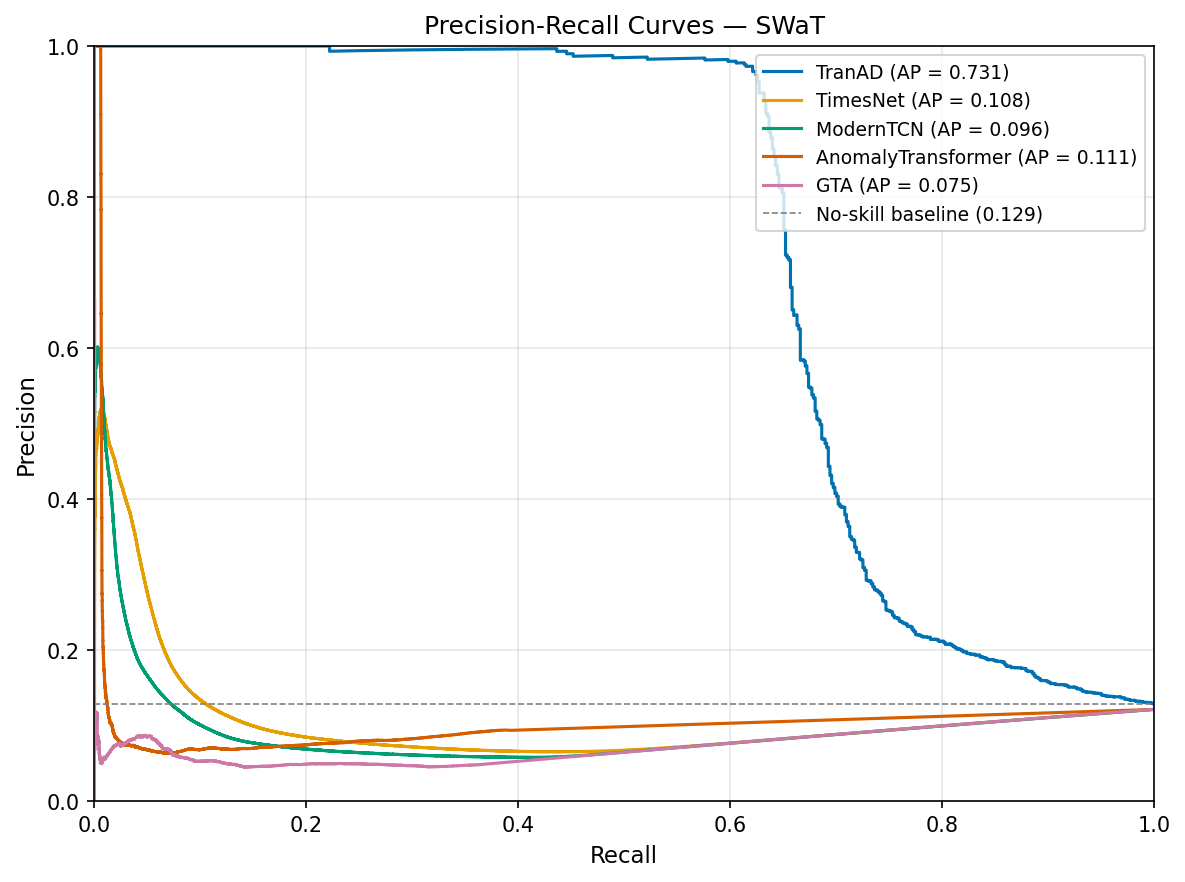
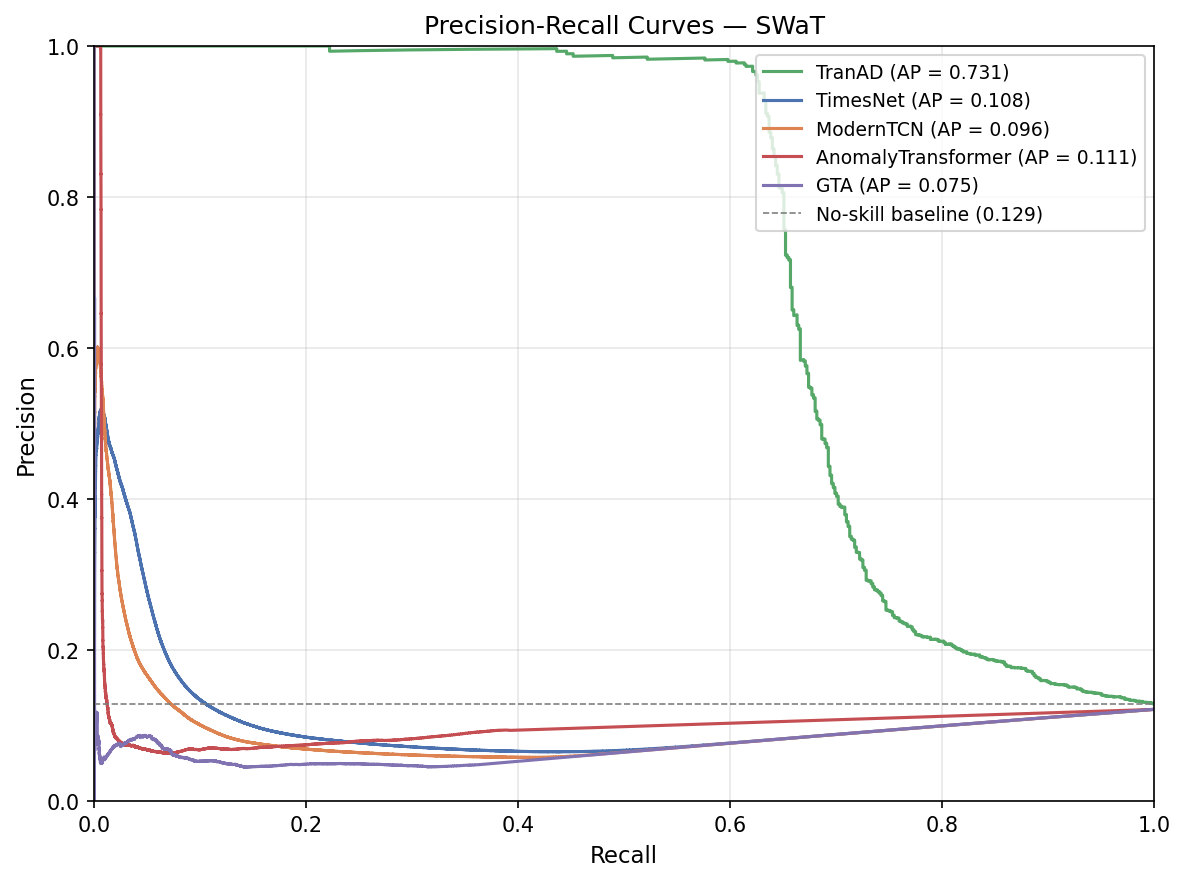
change colors

diff --git a/TranAD/main.py b/TranAD/main.py
@@ -18,6 +18,8 @@ from pprint import pprint
 import logging
 logging.getLogger("matplotlib.font_manager").setLevel(logging.ERROR)
 
+device = torch.device('cuda' if torch.cuda.is_available() else 'cpu')
+
 def convert_to_windows(data, model):
 	windows = []; w_size = model.n_window
 	for i, g in enumerate(data): 
@@ -59,13 +61,13 @@ def save_model(model, optimizer, scheduler, epoch, accuracy_list):
 def load_model(modelname, dims):
 	import src.models
 	model_class = getattr(src.models, modelname)
-	model = model_class(dims).double()
+	model = model_class(dims).double().to(device)
 	optimizer = torch.optim.AdamW(model.parameters() , lr=model.lr, weight_decay=1e-5)
 	scheduler = torch.optim.lr_scheduler.StepLR(optimizer, 5, 0.9)
 	fname = f'checkpoints/{args.model}_{args.dataset}/model.ckpt'
 	if os.path.exists(fname) and (not args.retrain or args.test):
 		print(f"{color.GREEN}Loading pre-trained model: {model.name}{color.ENDC}")
-		checkpoint = torch.load(fname)
+		checkpoint = torch.load(fname, map_location=device)
 		model.load_state_dict(checkpoint['model_state_dict'])
 		optimizer.load_state_dict(checkpoint['optimizer_state_dict'])
 		scheduler.load_state_dict(checkpoint['scheduler_state_dict'])
@@ -81,7 +83,7 @@ def backprop(epoch, model, data, dataO, optimizer, scheduler, training = True):
 	feats = dataO.shape[1]
 	if 'DAGMM' in model.name:
 		l = nn.MSELoss(reduction = 'none')
-		compute = ComputeLoss(model, 0.1, 0.005, 'cpu', model.n_gmm)
+		compute = ComputeLoss(model, 0.1, 0.005, device, model.n_gmm)
 		n = epoch + 1; w_size = model.n_window
 		l1s = []; l2s = []
 		if training:
@@ -104,7 +106,7 @@ def backprop(epoch, model, data, dataO, optimizer, scheduler, training = True):
 			ae1s = torch.stack(ae1s)
 			y_pred = ae1s[:, data.shape[1]-feats:data.shape[1]].view(-1, feats)
 			loss = l(ae1s, data)[:, data.shape[1]-feats:data.shape[1]].view(-1, feats)
-			return loss.detach().numpy(), y_pred.detach().numpy()
+			return loss.detach().cpu().numpy(), y_pred.detach().cpu().numpy()
 	if 'Attention' in model.name:
 		l = nn.MSELoss(reduction = 'none')
 		n = epoch + 1; w_size = model.n_window
@@ -119,7 +121,7 @@ def backprop(epoch, model, data, dataO, optimizer, scheduler, training = True):
 				optimizer.zero_grad()
 				loss.backward()
 				optimizer.step()
-			# res = torch.stack(res); np.save('ascores.npy', res.detach().numpy())
+			# res = torch.stack(res); np.save('ascores.npy', res.detach().cpu().numpy())
 			scheduler.step()
 			tqdm.write(f'Epoch {epoch},\tL1 = {np.mean(l1s)}')
 			return np.mean(l1s), optimizer.param_groups[0]['lr']
@@ -131,7 +133,7 @@ def backprop(epoch, model, data, dataO, optimizer, scheduler, training = True):
 				ae1s.append(ae1)
 			ae1s, y_pred = torch.stack(ae1s), torch.stack(y_pred)
 			loss = torch.mean(l(ae1s, data), axis=1)
-			return loss.detach().numpy(), y_pred.detach().numpy()
+			return loss.detach().cpu().numpy(), y_pred.detach().cpu().numpy()
 	elif 'OmniAnomaly' in model.name:
 		if training:
 			mses, klds = [], []
@@ -154,7 +156,7 @@ def backprop(epoch, model, data, dataO, optimizer, scheduler, training = True):
 				y_preds.append(y_pred)
 			y_pred = torch.stack(y_preds)
 			MSE = l(y_pred, data)
-			return MSE.detach().numpy(), y_pred.detach().numpy()
+			return MSE.detach().cpu().numpy(), y_pred.detach().cpu().numpy()
 	elif 'USAD' in model.name:
 		l = nn.MSELoss(reduction = 'none')
 		n = epoch + 1; w_size = model.n_window
@@ -181,7 +183,7 @@ def backprop(epoch, model, data, dataO, optimizer, scheduler, training = True):
 			y_pred = ae1s[:, data.shape[1]-feats:data.shape[1]].view(-1, feats)
 			loss = 0.1 * l(ae1s, data) + 0.9 * l(ae2ae1s, data)
 			loss = loss[:, data.shape[1]-feats:data.shape[1]].view(-1, feats)
-			return loss.detach().numpy(), y_pred.detach().numpy()
+			return loss.detach().cpu().numpy(), y_pred.detach().cpu().numpy()
 	elif model.name in ['GDN', 'MTAD_GAT', 'MSCRED', 'CAE_M']:
 		l = nn.MSELoss(reduction = 'none')
 		n = epoch + 1; w_size = model.n_window
@@ -211,13 +213,13 @@ def backprop(epoch, model, data, dataO, optimizer, scheduler, training = True):
 			y_pred = xs[:, data.shape[1]-feats:data.shape[1]].view(-1, feats)
 			loss = l(xs, data)
 			loss = loss[:, data.shape[1]-feats:data.shape[1]].view(-1, feats)
-			return loss.detach().numpy(), y_pred.detach().numpy()
+			return loss.detach().cpu().numpy(), y_pred.detach().cpu().numpy()
 	elif 'GAN' in model.name:
 		l = nn.MSELoss(reduction = 'none')
 		bcel = nn.BCELoss(reduction = 'mean')
 		msel = nn.MSELoss(reduction = 'mean')
 		real_label, fake_label = torch.tensor([0.9]), torch.tensor([0.1]) # label smoothing
-		real_label, fake_label = real_label.type(torch.DoubleTensor), fake_label.type(torch.DoubleTensor)
+		real_label, fake_label = real_label.type(torch.DoubleTensor).to(device), fake_label.type(torch.DoubleTensor).to(device)
 		n = epoch + 1; w_size = model.n_window
 		mses, gls, dls = [], [], []
 		if training:
@@ -250,10 +252,10 @@ def backprop(epoch, model, data, dataO, optimizer, scheduler, training = True):
 			y_pred = outputs[:, data.shape[1]-feats:data.shape[1]].view(-1, feats)
 			loss = l(outputs, data)
 			loss = loss[:, data.shape[1]-feats:data.shape[1]].view(-1, feats)
-			return loss.detach().numpy(), y_pred.detach().numpy()
+			return loss.detach().cpu().numpy(), y_pred.detach().cpu().numpy()
 	elif 'TranAD' in model.name:
 		l = nn.MSELoss(reduction = 'none')
-		data_x = torch.DoubleTensor(data); dataset = TensorDataset(data_x, data_x)
+		data_x = data.double(); dataset = TensorDataset(data_x, data_x)
 		bs = model.batch if training else len(data)
 		dataloader = DataLoader(dataset, batch_size = bs)
 		n = epoch + 1; w_size = model.n_window
@@ -281,7 +283,7 @@ def backprop(epoch, model, data, dataO, optimizer, scheduler, training = True):
 				z = model(window, elem)
 				if isinstance(z, tuple): z = z[1]
 			loss = l(z, elem)[0]
-			return loss.detach().numpy(), z.detach().numpy()[0]
+			return loss.detach().cpu().numpy(), z.detach().cpu().numpy()[0]
 	else:
 		y_pred = model(data)
 		loss = l(y_pred, data)
@@ -293,7 +295,7 @@ def backprop(epoch, model, data, dataO, optimizer, scheduler, training = True):
 			scheduler.step()
 			return loss.item(), optimizer.param_groups[0]['lr']
 		else:
-			return loss.detach().numpy(), y_pred.detach().numpy()
+			return loss.detach().cpu().numpy(), y_pred.detach().cpu().numpy()
 
 if __name__ == '__main__':
 	train_loader, test_loader, labels = load_dataset(args.dataset)
@@ -303,6 +305,7 @@ if __name__ == '__main__':
 
 	## Prepare data
 	trainD, testD = next(iter(train_loader)), next(iter(test_loader))
+	trainD, testD = trainD.to(device), testD.to(device)
 	trainO, testO = trainD, testD
 	if model.name in ['Attention', 'DAGMM', 'USAD', 'MSCRED', 'CAE_M', 'GDN', 'MTAD_GAT', 'MAD_GAN'] or 'TranAD' in model.name: 
 		trainD, testD = convert_to_windows(trainD, model), convert_to_windows(testD, model)
@@ -366,6 +369,6 @@ if __name__ == '__main__':
 	np.save(os.path.join(save_dir, 'predictions_raw.npy'),      pred_raw)
 	np.save(os.path.join(save_dir, 'threshold.npy'),            np.array([result['threshold']]))
 	np.save(os.path.join(save_dir, 'predictions_adjusted.npy'), np.array(pred_adjusted).astype(int))
-	np.save(os.path.join(save_dir, 'test_input.npy'),           testO_viz.numpy().astype(np.float16))
+	np.save(os.path.join(save_dir, 'test_input.npy'),           testO_viz.cpu().numpy().astype(np.float16))
 	np.save(os.path.join(save_dir, 'test_output.npy'),          y_pred.astype(np.float16))
 	print(f"Saved analysis files to {save_dir}/")

diff --git a/visualizing/pr_curve/prcurve.py b/visualizing/pr_curve/prcurve.py
@@ -8,11 +8,11 @@ models = ['TranAD', 'TimesNet', 'ModernTCN', 'AnomalyTransformer', 'GTA']
 
 # Colorblind-friendly palette (Wong, 2011)
 colors = {
-    'TranAD':             '#0072B2',  # blue
-    'TimesNet':           '#E69F00',  # orange
-    'ModernTCN':          '#009E73',  # green
-    'AnomalyTransformer': '#D55E00',  # vermillion
-    'GTA':                '#CC79A7',  # pink
+    'TranAD':             '#55A868',  
+    'TimesNet':           '#4C72B0',  
+    'ModernTCN':          '#DD8452',  
+    'AnomalyTransformer': '#C44E52', 
+    'GTA':                '#8172B2',  
 }
 
 fig, ax = plt.subplots(figsize=(8, 6))
